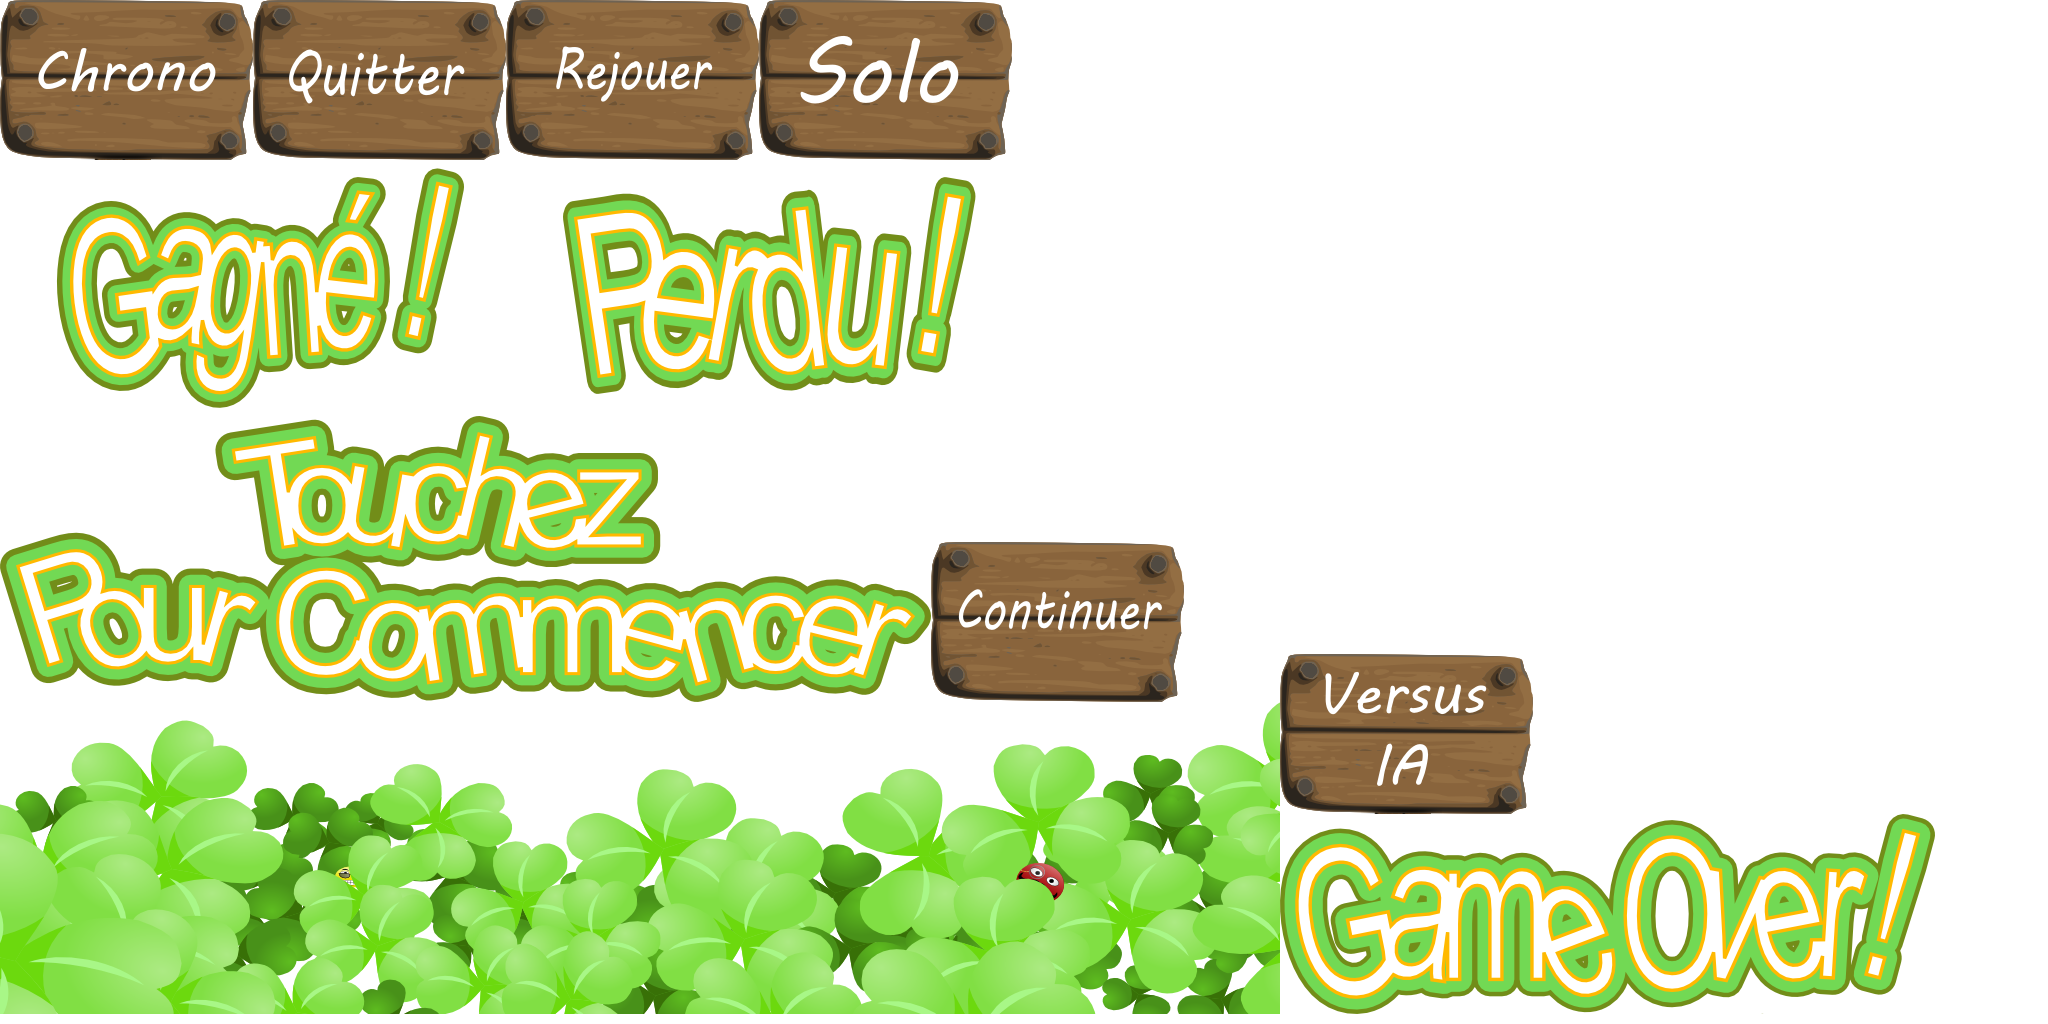
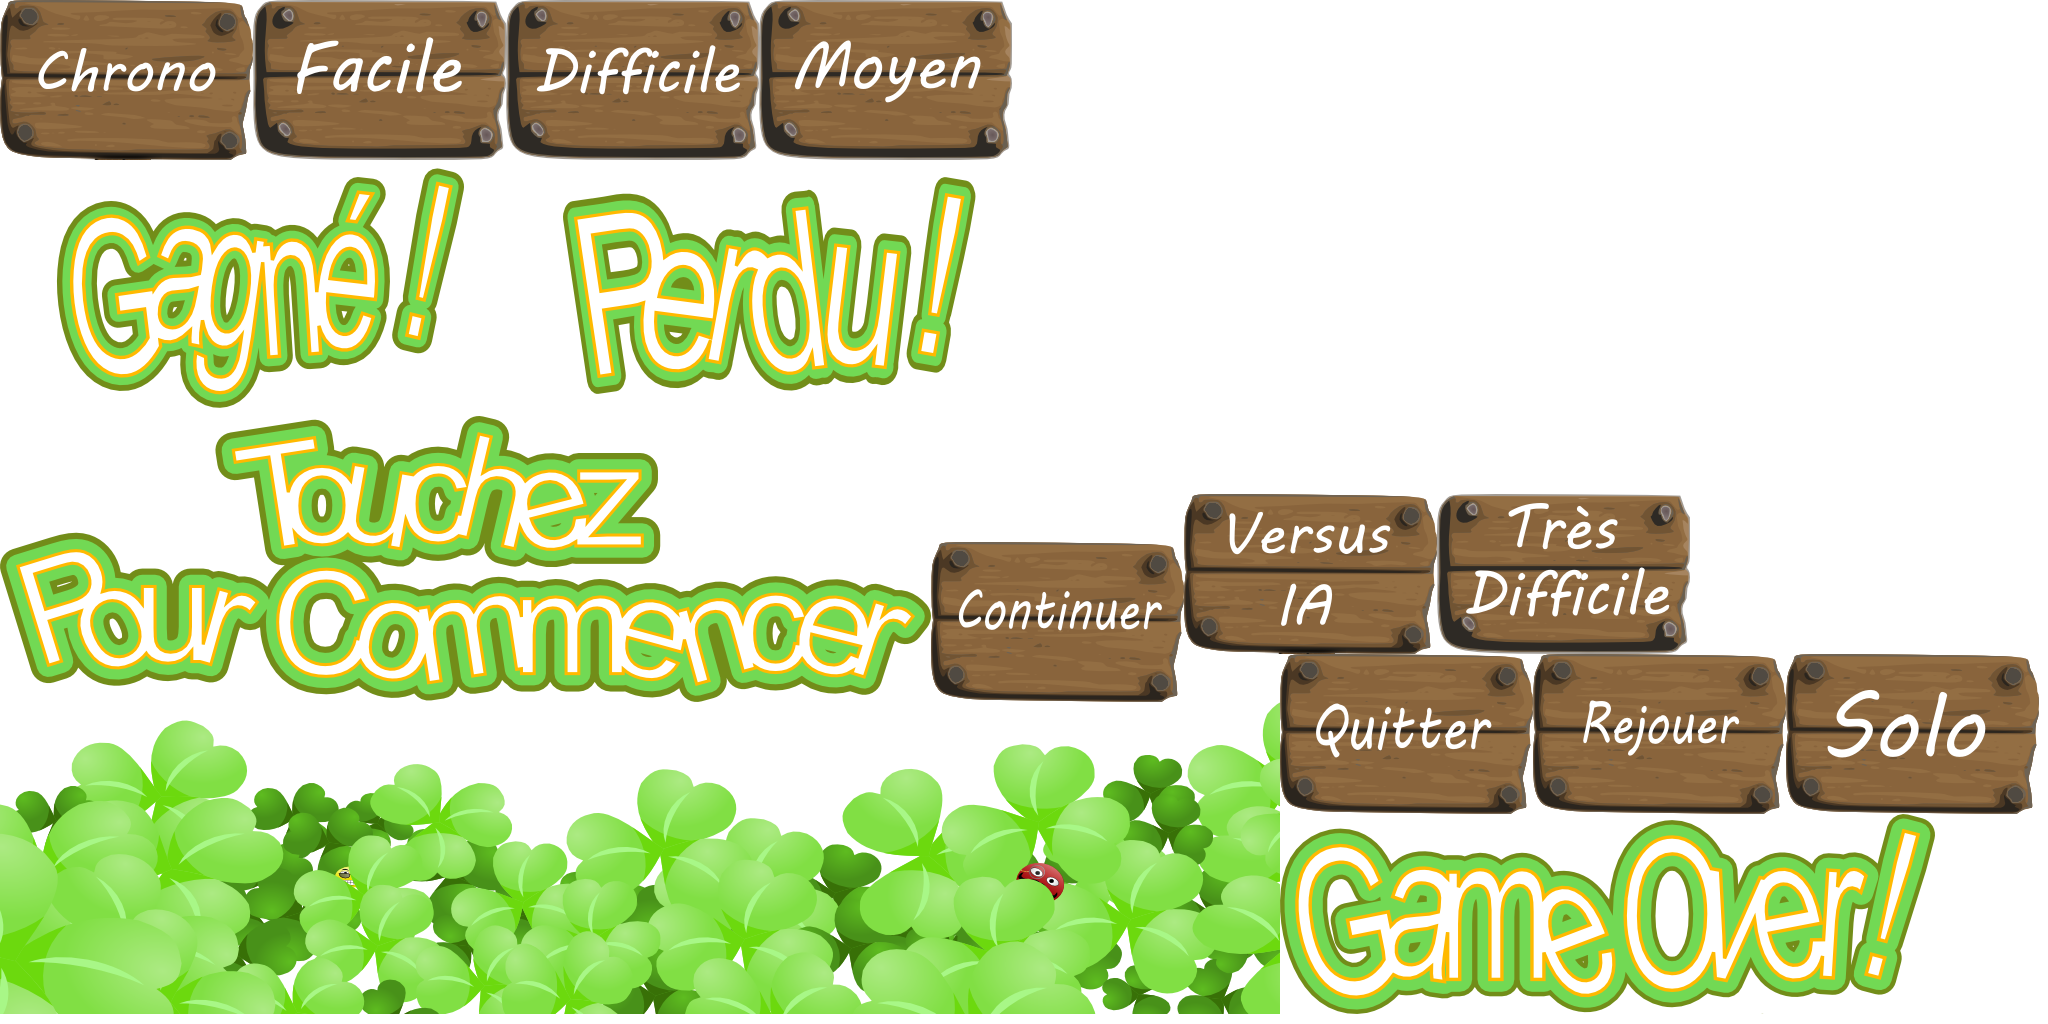
Ref #32: * Modification de SwingMenu pour pouvoir avoir des sous-menus * Ajout d'un sous-menu pour "versus", les différents niveaux ne font que lancer un mode versus simple pour le moment

Changed region(s): [[0.5625, 0.4688, 1.0, 0.8125], [0.125, 0.0, 0.5, 0.1562]]

diff --git a/puyopuyo-android/src/com/tacoid/puyopuyo/MainMenuScreen.java b/puyopuyo-android/src/com/tacoid/puyopuyo/MainMenuScreen.java
@@ -1,7 +1,9 @@
 package com.tacoid.puyopuyo;
 
 import com.badlogic.gdx.Gdx;
+import com.badlogic.gdx.InputProcessor;
 import com.badlogic.gdx.Screen;
+import com.badlogic.gdx.Input.Keys;
 import com.badlogic.gdx.graphics.GL20;
 import com.badlogic.gdx.graphics.g2d.TextureRegion;
 import com.badlogic.gdx.scenes.scene2d.Stage;
@@ -15,11 +17,12 @@ import com.tacoid.puyopuyo.actors.SoundButtonActor;
 import com.tacoid.puyopuyo.actors.SwingMenu;
 
 
-public class MainMenuScreen implements Screen {
+public class MainMenuScreen implements Screen, InputProcessor {
 	private static final int VIRTUAL_WIDTH = 1280;
 	private static final int VIRTUAL_HEIGHT = 768;
 	private static MainMenuScreen instance = null;
 	private Stage stage;
+	private SwingMenu menu;
 	
 	private MainMenuScreen() {
 		init();
@@ -37,9 +40,9 @@ public class MainMenuScreen implements Screen {
 		
 		stage.addActor(new BackgroundActor(ScreenOrientation.LANDSCAPE));
 		
-		SwingMenu menu = new SwingMenu(ScreenOrientation.LANDSCAPE);
+		menu = new SwingMenu(ScreenOrientation.LANDSCAPE);
 		
-		menu.initBegin();
+		menu.initBegin("main");
 		{
 			/* SOLO BUTTON */
 			TextureRegion playRegion =  PuyoPuyo.getInstance().atlasPlank.findRegion("solo-fr");
@@ -59,11 +62,31 @@ public class MainMenuScreen implements Screen {
 		}	
 		menu.initEnd();
 		
+		menu.initBegin("versus");
+		{
+			/* EASY BUTTON */
+			TextureRegion easyRegion =  PuyoPuyo.getInstance().atlasPlank.findRegion("easy");
+			menu.addButton(new LevelButton(easyRegion, easyRegion));
+			
+			/* MEDIUM BUTTON */
+			TextureRegion mediumRegion = PuyoPuyo.getInstance().atlasPlank.findRegion("medium");
+			menu.addButton(new LevelButton(mediumRegion, mediumRegion));
+			
+			/* HARD BUTTON */
+			TextureRegion hardRegion = PuyoPuyo.getInstance().atlasPlank.findRegion("hard");
+			menu.addButton(new LevelButton(hardRegion, hardRegion));
+			
+			/* VERY HARD BUTTON */
+			TextureRegion vhardRegion = PuyoPuyo.getInstance().atlasPlank.findRegion("veryhard");
+			menu.addButton(new LevelButton(vhardRegion, vhardRegion));
+		}	
+		menu.initEnd();
+		
 		stage.addActor(menu);
 		addButton(MusicButtonActor.createMusicButton(),VIRTUAL_WIDTH-64, VIRTUAL_HEIGHT-64);
 		addButton(SoundButtonActor.createSoundButton(),VIRTUAL_WIDTH-2*64-10, VIRTUAL_HEIGHT-64);
 
-		menu.show();
+		menu.show("main");
 		
 		MusicPlayer.getInstance().setVolume(0.8f);
 		MusicPlayer.getInstance().playMusic(MusicType.MAIN, true);
@@ -116,7 +139,7 @@ public class MainMenuScreen implements Screen {
 
 	@Override
 	public void show() {
-		Gdx.input.setInputProcessor(stage);
+		Gdx.input.setInputProcessor(this);
 	}
 
 	private class SoloButton extends Button{
@@ -148,8 +171,9 @@ public class MainMenuScreen implements Screen {
 			return true;
 		}
 		public void touchUp(float x, float y, int pointer) {
-			GameVersusScreen.getInstance().init();
-			PuyoPuyo.getInstance().setScreen(GameVersusScreen.getInstance());
+			menu.switchMenuAnimated("versus");
+			//GameVersusScreen.getInstance().init();
+			//PuyoPuyo.getInstance().setScreen(GameVersusScreen.getInstance());
 		}
 	}
 	
@@ -185,5 +209,73 @@ public class MainMenuScreen implements Screen {
 			Gdx.app.exit();
 		}
 	}
+	
+	private class LevelButton extends Button{
+		public LevelButton(TextureRegion regionUp, TextureRegion regionDown) {
+			super(regionUp, regionDown);
+			// TODO Auto-generated constructor stub
+		}
+
+		@Override
+		public boolean touchDown(float x, float y, int pointer) {
+			SoundPlayer.getInstance().playSound(SoundType.TOUCH_MENU, 0.5f, true);
+			return true;
+		}
+		public void touchUp(float x, float y, int pointer) {
+			GameVersusScreen.getInstance().init();
+			PuyoPuyo.getInstance().setScreen(GameVersusScreen.getInstance());
+			menu.switchMenu("main");
+		}
+	}
+
+	@Override
+	public boolean keyDown(int key) {
+		switch (key) {
+		case Keys.BACK:
+			if(!menu.getCurrentMenu().equals("main")) {
+				menu.switchMenuAnimated("main");
+			}
+		}
+		return false;
+	}
+
+	@Override
+	public boolean keyTyped(char arg0) {
+		// TODO Auto-generated method stub
+		return false;
+	}
+
+	@Override
+	public boolean keyUp(int arg0) {
+		// TODO Auto-generated method stub
+		return false;
+	}
+
+	@Override
+	public boolean scrolled(int arg0) {
+		// TODO Auto-generated method stub
+		return false;
+	}
+
+	@Override
+	public boolean touchDown(int x, int y, int pointer, int button) {
+		return stage.touchDown(x, y, pointer, button);
+	}
+
+	@Override
+	public boolean touchDragged(int arg0, int arg1, int arg2) {
+		return stage.touchDragged(arg0, arg1, arg2);
+	}
+
+	@Override
+	public boolean touchMoved(int x, int y) {
+		return stage.touchMoved(x, y);
+	}
+
+	@Override
+	public boolean touchUp(int x, int y, int pointer, int button) {
+		return stage.touchUp(x, y, pointer, button);
+	}
+	
 
 }

diff --git a/puyopuyo-android/src/com/tacoid/puyopuyo/actors/SwingMenu.java b/puyopuyo-android/src/com/tacoid/puyopuyo/actors/SwingMenu.java
@@ -1,7 +1,10 @@
 package com.tacoid.puyopuyo.actors;
 
 import java.util.ArrayList;
+import java.util.HashMap;
+import java.util.Hashtable;
 import java.util.List;
+import java.util.Map;
 
 import com.badlogic.gdx.Gdx;
 import com.badlogic.gdx.graphics.g2d.SpriteBatch;
@@ -17,28 +20,82 @@ public class SwingMenu extends Group{
 	
 	private static final float BUTTON_HEIGHT = 250;
 	
-	private List<Actor> buttons;
+	private enum State {
+		SHOWING,
+		HIDING,
+		IDLE;
+	};
+	
+	private Map<String,Group> menus;
+	private Group currentGroup;
+	private String currentName;
 
 	private Interpolation interpBush;
 	private Interpolation interpButton;
 	private float timeBush;
 	private float timeButton;
+	private State state = State.IDLE;
+	
+	private boolean switching = false;
+	private String nextMenu;
+	
+	
 	
 	private class BushActor extends Actor {
 		private TextureRegion ForegroundTex;
-		
-		
+
 		public BushActor() {
 			ForegroundTex = new TextureRegion(PuyoPuyo.getInstance().atlasPlank.findRegion("foreground"));
 		}
 		
 		@Override
 		public void draw(SpriteBatch batch, float delta) {
-		     timeBush+=Gdx.graphics.getDeltaTime()*0.4;
-		     timeButton+=Gdx.graphics.getDeltaTime()*0.4;
-		     for(int i=0; i<buttons.size(); i++) {
-		    	 buttons.get(i).y = interpButton.apply(0, BUTTON_HEIGHT, Math.min(timeButton,1.0f));
-		     }
+			boolean keepGoing = false;
+			switch(state) {
+			case HIDING:
+				if(timeBush >= 0.5f) {
+					timeBush-=Gdx.graphics.getDeltaTime()*0.6;
+					keepGoing = true;
+				}
+				
+				if( timeButton >= -0.1f) {
+					timeButton-=Gdx.graphics.getDeltaTime()*1.0;
+					keepGoing = true;
+				}
+				
+				if(!keepGoing) {
+					if(switching) {
+						show(nextMenu);
+					} else {
+						this.touchable =false;
+						this.visible = false;
+						state = State.IDLE;
+					}
+				}
+				break;
+			case SHOWING:
+				if(timeBush <= 1.0f) {
+					timeBush+=Gdx.graphics.getDeltaTime()*0.4;
+					keepGoing = true;
+				}
+				
+				if( timeButton <= 1.0f) {
+					timeButton+=Gdx.graphics.getDeltaTime()*0.5;
+					keepGoing = true;
+				} 
+				if(!keepGoing){
+					state = State.IDLE;
+				}
+				break;
+			case IDLE:
+				break;
+			}
+			
+			currentGroup.y = interpButton.apply(0, BUTTON_HEIGHT, Math.min(timeButton,1.0f));
+			/*
+			for(int i=0; i<currentGroup.size(); i++) {
+				currentList.get(i).y = interpButton.apply(0, BUTTON_HEIGHT, Math.min(timeButton,1.0f));
+			}*/
 			batch.draw(ForegroundTex,0,interpBush.apply(-ForegroundTex.getRegionHeight(),0.0f,Math.min(timeBush,1.0f)));
 		}
 
@@ -59,36 +116,68 @@ public class SwingMenu extends Group{
 		
 		interpBush = new Interpolation.Pow(2);
 		interpButton = new Interpolation.SwingOut(1.5f);
-		addActor(new BushActor());
+		menus = new HashMap<String, Group>();
 	}
 	
-	public void initBegin() {
-		buttons = new ArrayList<Actor>();
+	public void initBegin(String menu) {
+		menus.put(menu, new Group());
+		currentGroup = menus.get(menu);
+		currentName = menu;
 	}
 	
 	public void addButton( Actor actor) {
-		buttons.add(actor);
+		currentGroup.addActor(actor);
 	}
 	
 	public void initEnd() {
-		for(int i=0; i<buttons.size(); i++) {
-			/*buttons.get(i).x = VIRTUAL_WIDTH*(i+1)/(buttons.size()+1)-128;*/
-			buttons.get(i).x = (i+1)*(VIRTUAL_WIDTH-buttons.size()*256)/(buttons.size()+1)+i*256;
-			buttons.get(i).y = 0;
-			addActor(buttons.get(i));
+		int size = currentGroup.getActors().size();
+		for(int i=0; i<size; i++) {
+			/*currentList.get(i).x = VIRTUAL_WIDTH*(i+1)/(buttons.size()+1)-128;*/
+			currentGroup.getActors().get(i).x = (i+1)*(VIRTUAL_WIDTH-size*256)/(size+1)+i*256;
+			currentGroup.getActors().get(i).y = 0;
+		//addActor(buttons.get(i));
 		}
-		addActor(new BushActor());
 	}
-	public void show() {
+	public void show(String menu) 
+	{
+		this.clear();
+		currentGroup = menus.get(menu);
+		currentName = menu;
+		
+		this.addActor(currentGroup);
+		this.addActor(new BushActor());
+		
+		state=State.SHOWING;
 		timeBush = 0.5f;
-		timeButton = 0.0f;
+		timeButton = -0.1f;
 		this.touchable =true;
 		this.visible = true;
+		switching = false;
 	}
 	
 	public void hide() {
-		this.touchable =false;
-		this.visible = false;
+		state=State.HIDING;
 	}
+	
+	/* Change de menu avec animation */
+	public void switchMenuAnimated(String menu) {
+		this.hide();
+		switching = true;
+		nextMenu = menu;
+	}
+	
+	/* Change de menu sans animation */
+	public void switchMenu(String menu) {
+		this.clear();
+		currentGroup = menus.get(menu);
+		
+		this.addActor(currentGroup);
+		this.addActor(new BushActor());
+	}
+	
+	public String getCurrentMenu() {
+		return currentName;
+	}
+	
 
 }

diff --git a/puyopuyo-android/src/com/tacoid/puyopuyo/actors/GameOverActor.java b/puyopuyo-android/src/com/tacoid/puyopuyo/actors/GameOverActor.java
@@ -88,7 +88,7 @@ public class GameOverActor extends Group {
 		gameOverSprite = new Sprite(PuyoPuyo.getInstance().atlasPlank.findRegion("gameover"));
 		
 		menu = new SwingMenu(gs.getOrientation());
-		menu.initBegin();
+		menu.initBegin("gameover");
 		menu.addButton(new ReplayButton(rejouerRegion, rejouerRegion));
 		menu.addButton(new QuitButton(quitterRegion, quitterRegion));
 		menu.initEnd();
@@ -110,7 +110,7 @@ public class GameOverActor extends Group {
 	}
 	
 	public void show(GameOverType type) {
-		menu.show();
+		menu.show("gameover");
 		this.type = type;
 		this.visible = true;
 		this.HighScore = ScoreManager.getInstance().getScore(gameScreen.getGameType());

diff --git a/puyopuyo-android/src/com/tacoid/puyopuyo/actors/PauseMenu.java b/puyopuyo-android/src/com/tacoid/puyopuyo/actors/PauseMenu.java
@@ -54,7 +54,7 @@ public class PauseMenu extends Group{
 		
 		menu = new SwingMenu(orientation);
 		
-		menu.initBegin();
+		menu.initBegin("pause");
 		menu.addButton(new ContinueButton(continueRegion));
 		menu.addButton(new QuitButton(quitRegion));
 		menu.initEnd();
@@ -69,7 +69,7 @@ public class PauseMenu extends Group{
 	public void show() {
 		gameScreen.gamePause();
 		this.visible = true;
-		menu.show();
+		menu.show("pause");
 	}
 	
 	public void hide() {
